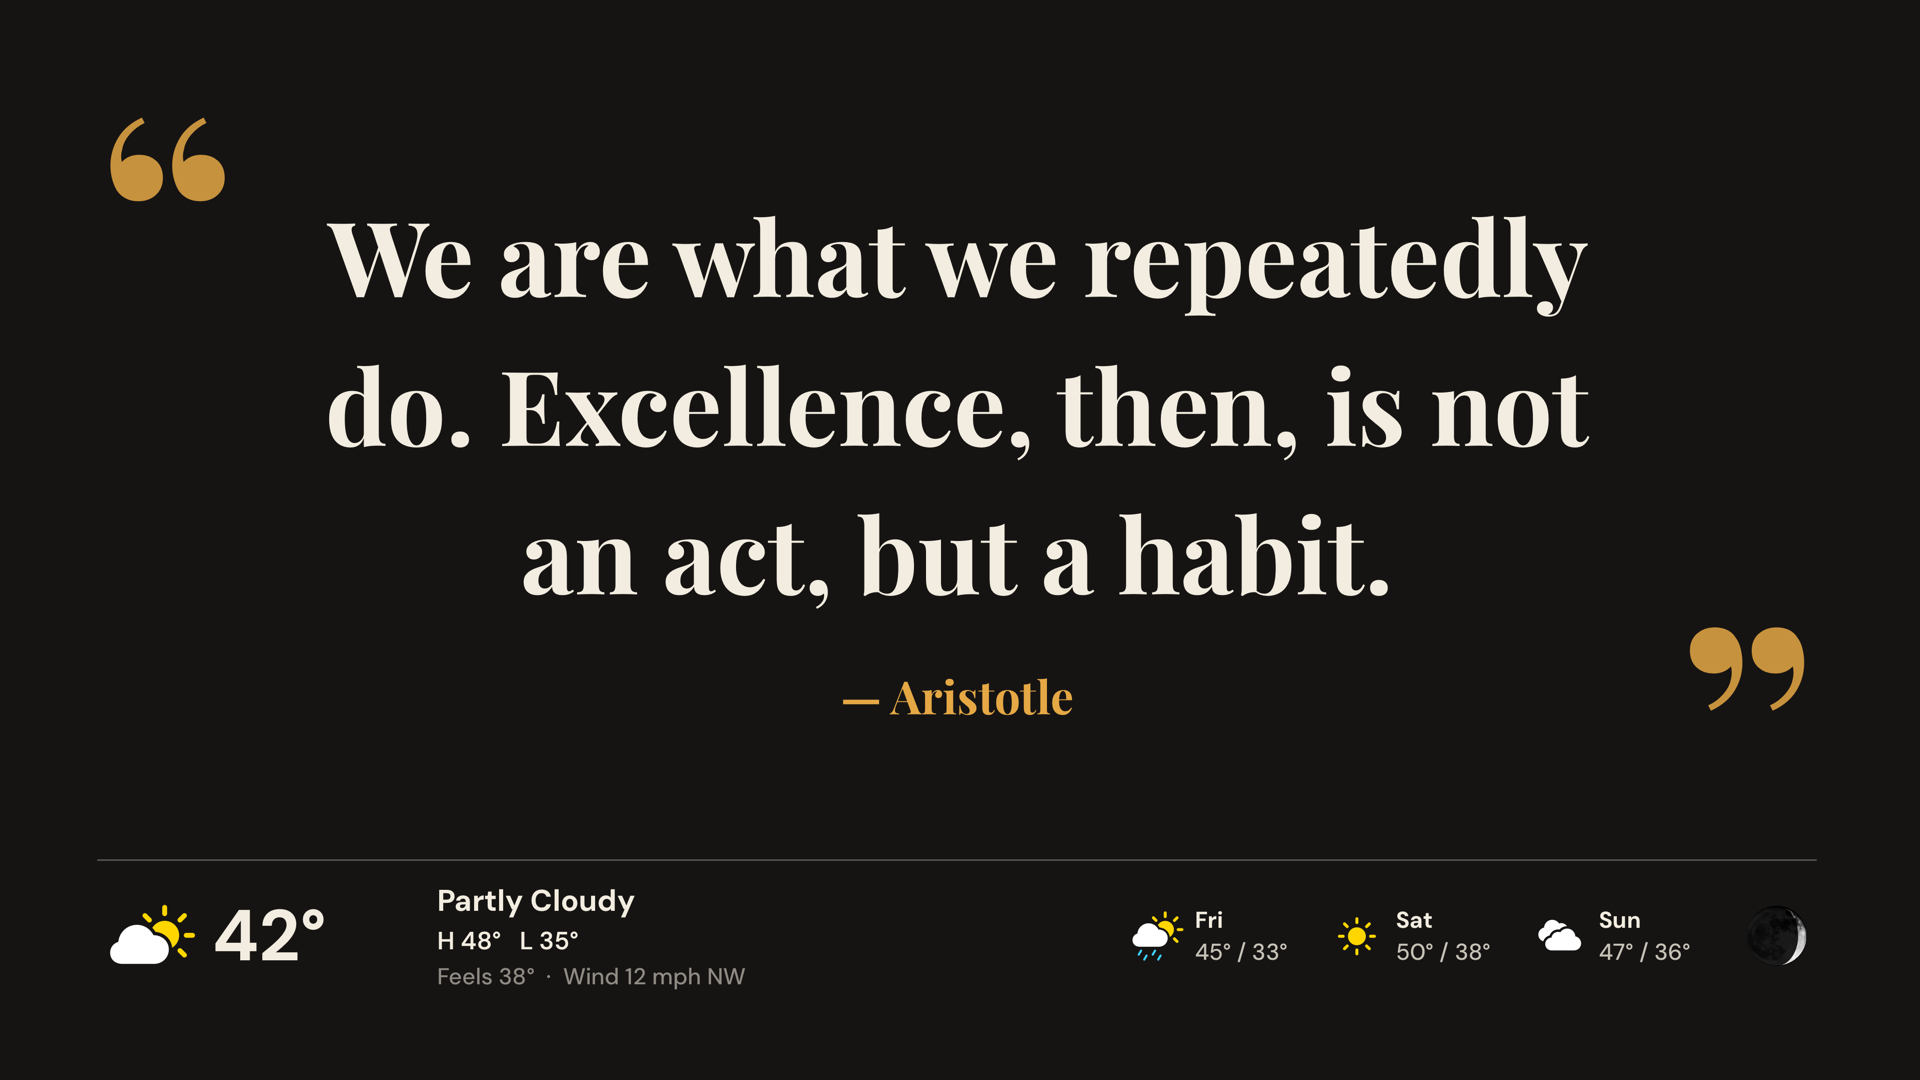
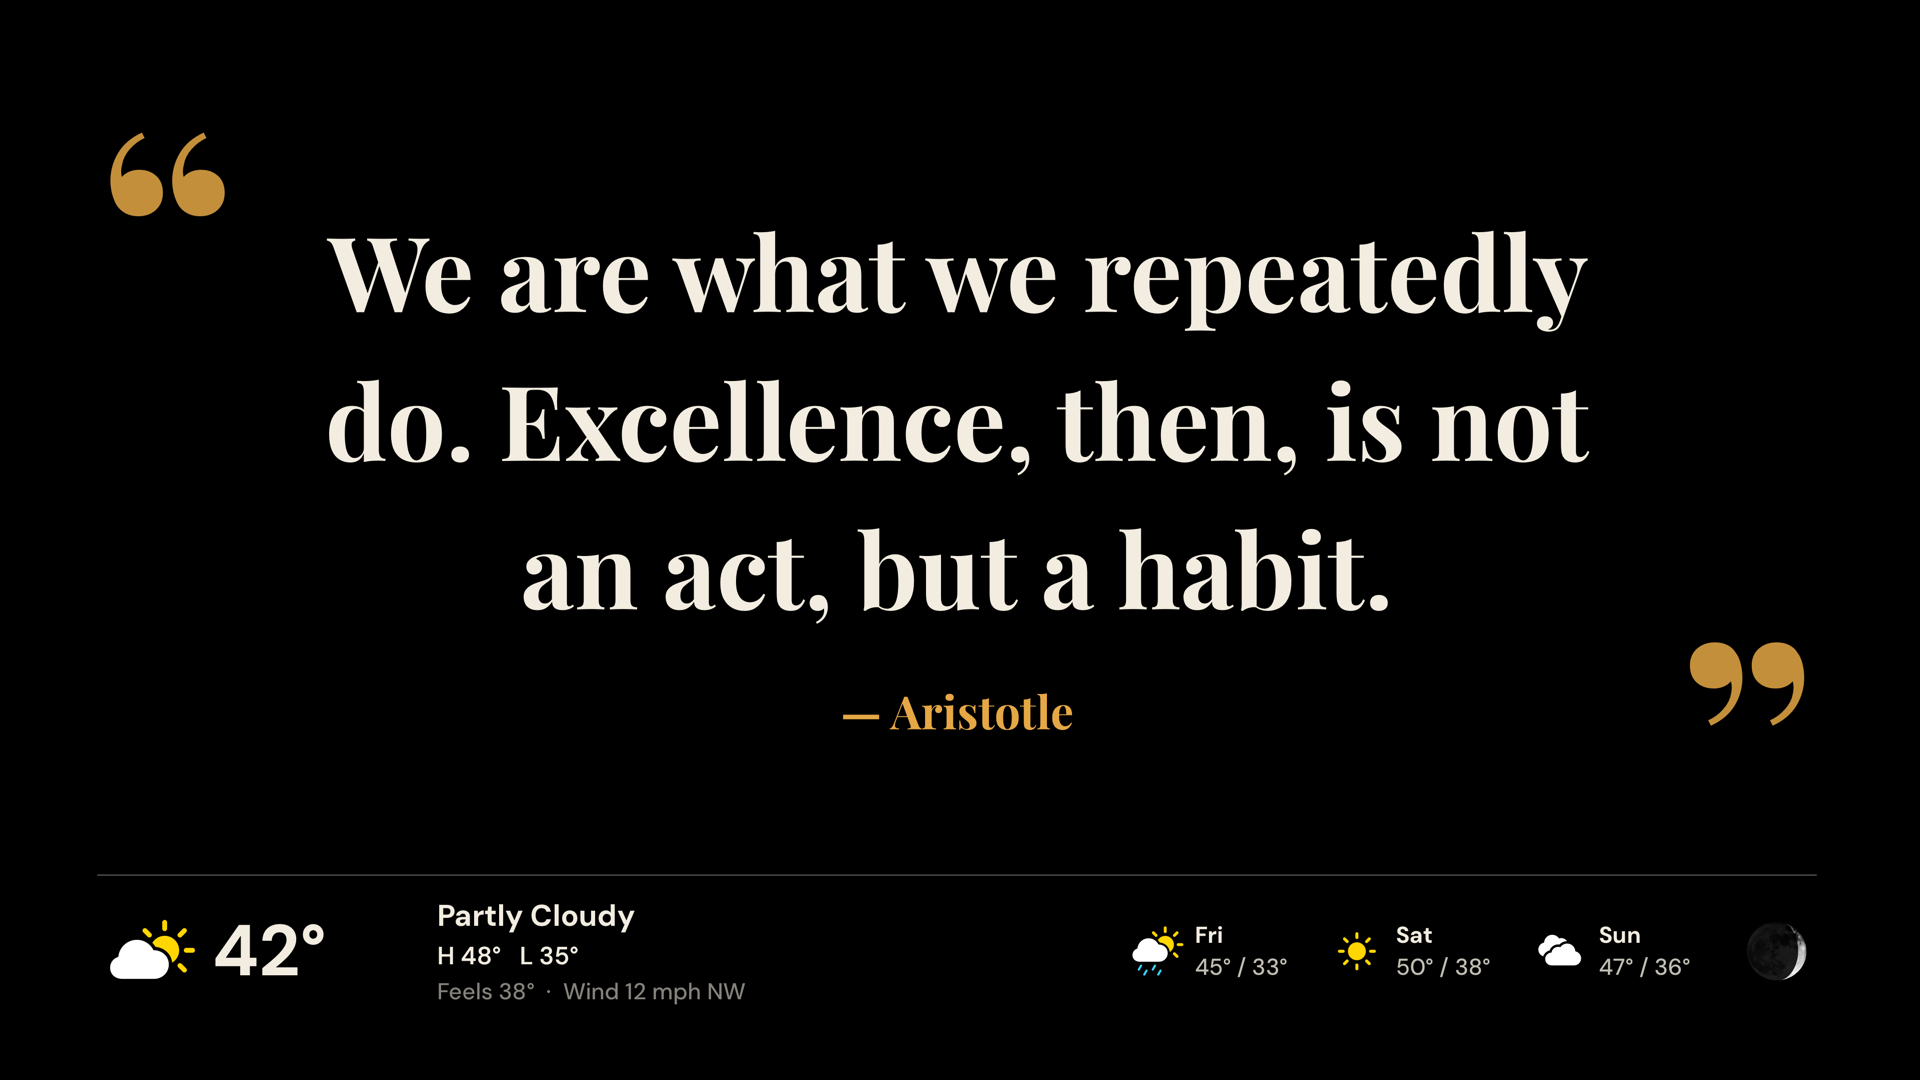
Set the Quote layout on true black
On an OLED the ground switches off and the quote stands alone; the
user preferred it to the warm charcoal on their TV.

diff --git a/HomeDashboardTV/UI/QuoteView.swift b/HomeDashboardTV/UI/QuoteView.swift
@@ -77,7 +77,8 @@ struct QuoteView: Theme {
 }
 
 private enum Ink {
-    static let plate = Color(red: 0.085, green: 0.080, blue: 0.075)
+    /// True black: on an OLED the ground switches off and the quote stands alone.
+    static let plate = Color.black
     static let cream = Color(red: 0.95, green: 0.93, blue: 0.88)
     static let faint = cream.opacity(0.55)
     static let rule = cream.opacity(0.3)
